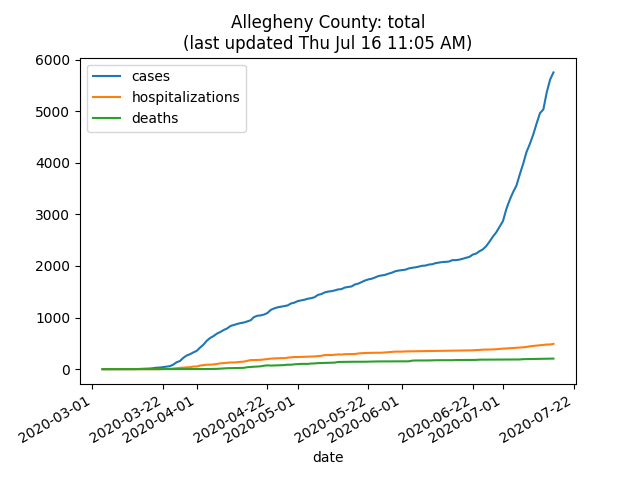
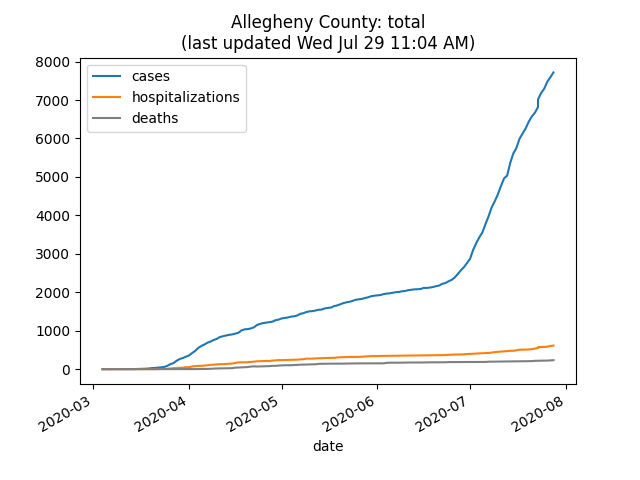
New orders.

diff --git a/index.html b/index.html
@@ -12,46 +12,20 @@
     </header>
 
     <aside>
-      Last updated: Thu Jul 16, 11:05 AM
+      Last updated: Wed Jul 29, 11:04 AM
     </aside>
 
     <section>
       <h2 style="color: #ff6700">Important announcements</h2>
       <ul>
         <li>
-	  <details>
-	    <summary>
-	      <a href="https://www.health.pa.gov/topics/disease/coronavirus/Pages/Travelers.aspx">PA recommended 14-day self-quarantine if traveled to one of these states...</a>
-	    </summary>
-	  </details>
-	<li>
           <details open="true">
             <summary>
-              Wed Jul 08: Allegheny County two-week order on indoor dining etc.
+              <time datetime="2020-07-23">Thu July 23</time>: Allegheny County COVID Field Response Team begins visiting businesses
             </summary>
-            <p>The order takes effect at <time datetime="2020-7-10
-                                                          00:01">12:01
-                                                          a.m. on
-                                                          Friday, July
-                                                          10,
-                                                          2020</time>.
-            <p>Summary (read the full <a href="https://www.alleghenycounty.us/uploadedFiles/Allegheny_Home/Health_Department/Resources/COVID-19/Docs/ACHD%20COVID-19%20Control%20Measure%20Order%207-8-2020.pdf">official
-                order</a> for details):
-              <ul>
-                <li>Indoor dining or alcohol consumption at bars,
-                  restaurants, or any other business establishments in
-                  Allegheny County is prohibited.
-                <li>Bars, restaurants or any other business
-                establishment with food service located in Allegheny
-                County are permitted to provide take-out and delivery
-                sales, of food and alcohol, as well as dine-in service
-                in outdoor seating areas so long as they strictly
-                adhere to the requirements of the state.
-                <li>Events and gatherings of more than 25 persons indoors and more than 50 persons outdoors in Allegheny County are prohibited.
-                  <ul>
-                    <li>   This requirement does not apply to religious gatherings held by churches, synagogues, temples, mosques, or other places of worship. Religious institutions remain subject to any requirements set forth by the Pennsylvania Department of Health.
-                  </ul>
-              </ul>
+            <p>Read the <a href="https://www.alleghenycounty.us/Health-Department/Resources/COVID-19/COVID-Field-Response-Team-(FRT).aspx">official announcement</a>.
+            <p>
+              You can browse and search the status of business compliance at the <a href="https://eapps.alleghenycounty.us/cFips/cDashBoard.aspx">COVID-19 assessment dashboard</a>.
             <p>
               Complaints regarding establishments which are violating the
               Health Department order may be sent to the department through
@@ -68,6 +42,46 @@
                 <p>
                   You may wish to <a href="https://www.alleghenycounty.us/alerts">sign up for daily updates from Allegheny Alerts</a> for more details.
               </aside>
+          </details>
+        <li>
+	  <details>
+	    <summary>
+	      <a href="https://www.health.pa.gov/topics/disease/coronavirus/Pages/Travelers.aspx">PA recommended 14-day self-quarantine if traveled to one of these states...</a>
+	    </summary>
+	  </details>
+	<li>
+          <details open="true">
+            <summary>
+              Fri Jul 17: Allegheny County order on indoor dining at 25% capacity, etc.
+            </summary>
+            <p>The order takes effect at <time datetime="2020-7-17
+                                                         17:00">5:00
+                p.m. on
+                Friday, July
+                17,
+                2020</time>.
+            <p>Summary (read the full <a href="https://www.alleghenycounty.us/News/2020/Health-Department-2020/6442472154.aspx">official
+                order</a> for details):
+              All provisions of the <a href="#pa-2020-07-15">Order of the Secretary of the Pennsylvania Department of Health Directing Targeted Mitigation Measures, dated <time datetime="2020-07-15">July 15, 2020</time></a> are in effect, <em>with the following exceptions for the county</em>:
+              <ul>
+                <li> Indoor and outdoor seating areas for sit-down, dine-in service at bars, restaurants, and private catered events shall be closed to patrons by 11:00 p.m. Take-out sales continue to be permitted after 11:00 p.m., consistent with applicable Pennsylvania law.
+                <li> The use of tobacco products, including e-cigarettes, is prohibited at all indoor and outdoor dining facilities and indoors at casinos.
+                <li> Events and gatherings other than those in businesses in the retail food services industry are limited to:
+                  <ul>
+                    <li> Indoor events and gatherings of more than 25 persons are prohibited; and
+                    <li>Outdoor events and gatherings of more than 50 persons are prohibited.
+                  </ul>
+              </ul>
+          </details>
+        <li>
+          <details open="true" id="pa-2020-07-15">
+            <summary>
+              Wed Jul 15: PA order directing targeted mitigation measures
+            </summary>
+            <p>Read the <a href="https://www.governor.pa.gov/newsroom/wolf-administration-announces-targeted-mitigation-efforts-in-response-to-recent-covid-case-increases/">full order</a> for details. Most significant provision:
+              <ul>
+                <li>Occupancy is limited to <strong>25 percent</strong> of stated fire-code maximum occupancy for indoor dining, or 25 persons for a discrete indoor event or gathering in a restaurant. The maximum occupancy limit includes staff.
+              </ul>
           </details>
         <li>
           <details open="true">
@@ -179,15 +193,11 @@
       <nav>
         <ul>
           <li><a href="#dailyaveraged">Daily cases, hospitalizations, deaths</a>
-          <li><a href="#dailyaveraged-hospitalizations-deaths">Daily hospitalizations, deaths only</a>
           <li><a href="#total">Total cases, hospitalizations, deaths</a>
         </ul>
       </nav>
       <figure id="dailyaveraged">
         <img src="dailyaveraged.png" alt="Allegheny County: new daily (7-day-average)"/>
-      </figure>
-      <figure id="dailyaveraged-hospitalizations-deaths">
-        <img src="dailyaveraged-hospitalizations-deaths.png" alt="Allegheny County: new hospitalizations &amp; deaths (7-day-average)"/>
       </figure>
       <figure id="total">
         <img src="total.png" alt="Allegheny County: total"/>
